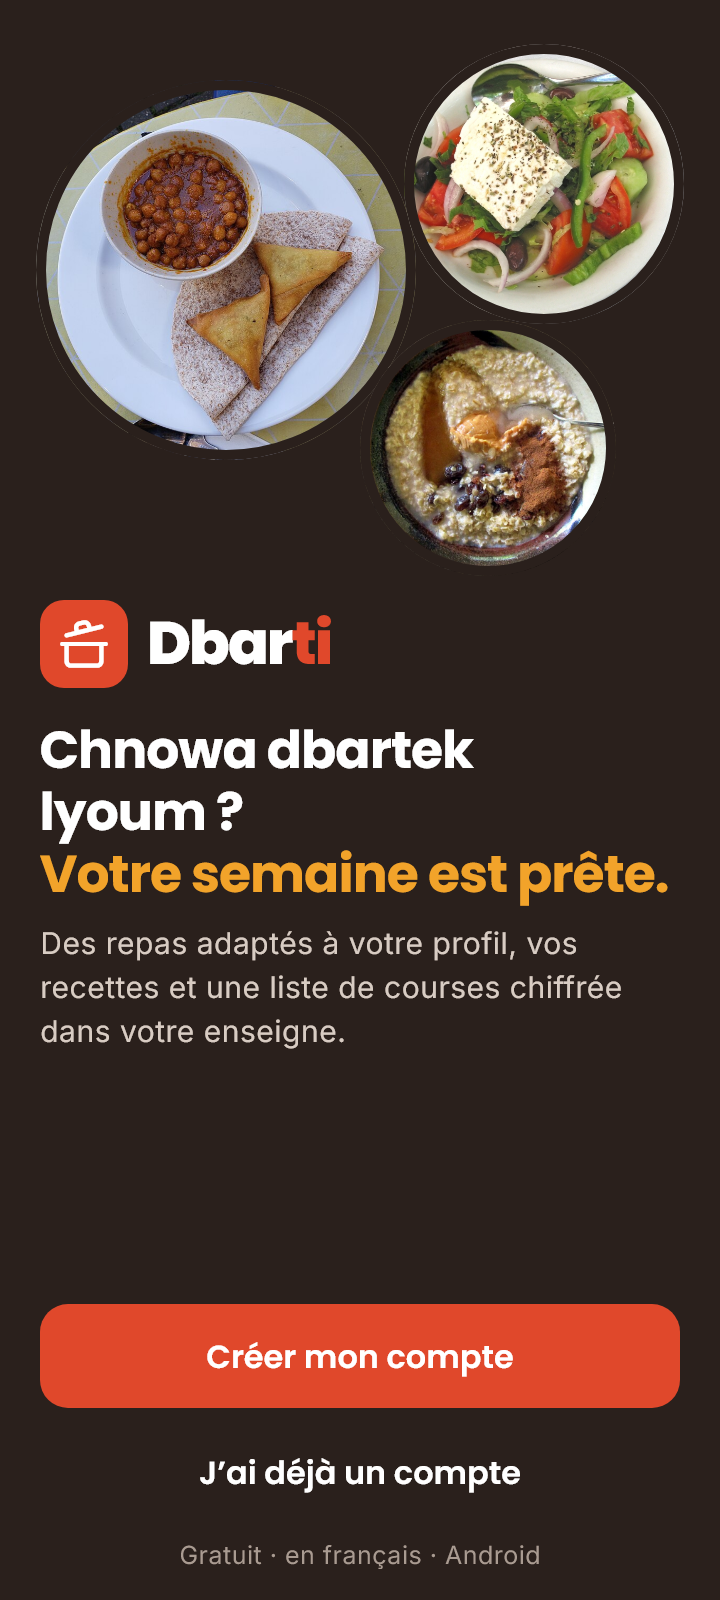
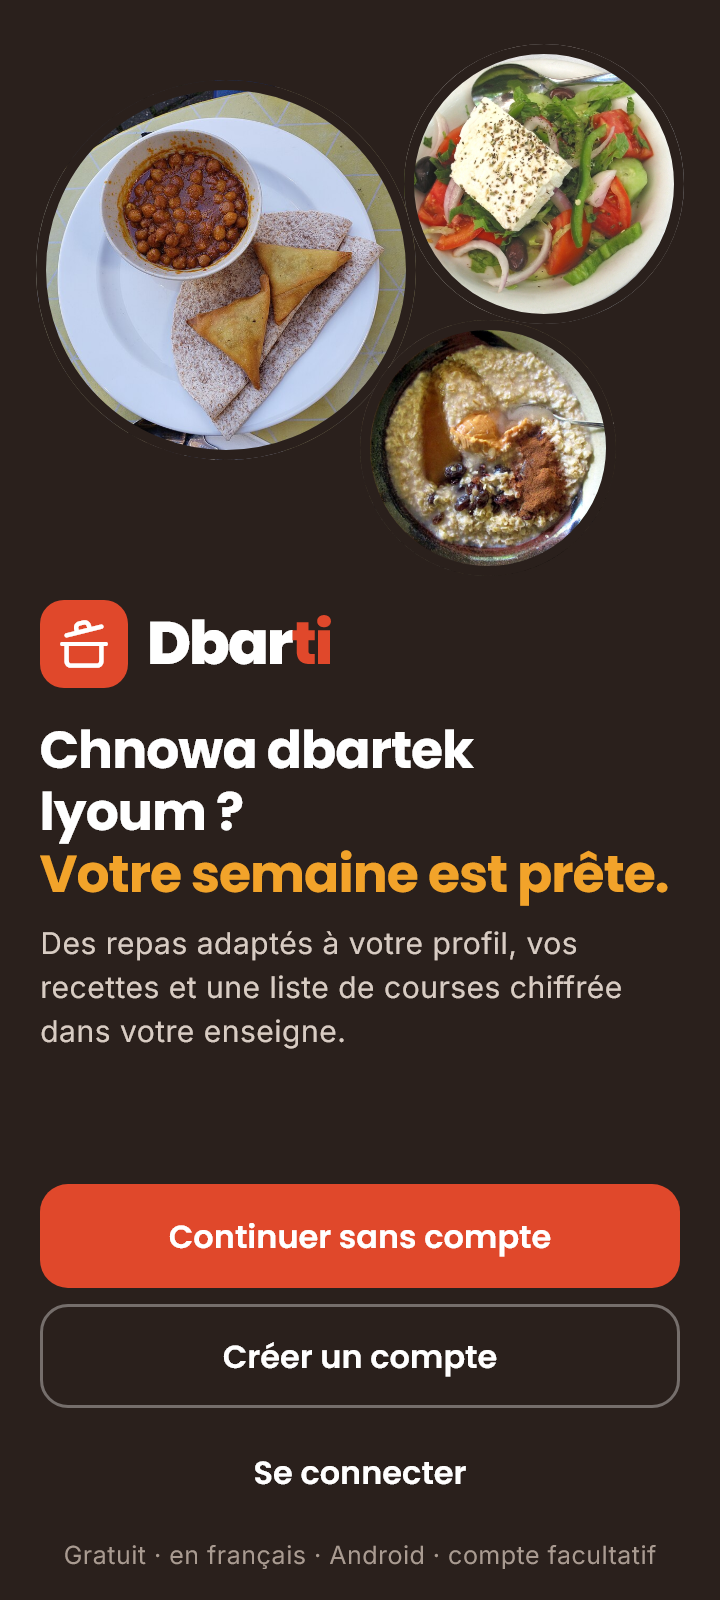
Documentation : utiliser sans compte
Section « Utiliser sans compte » du README, PLAN.md (version 1.1.0),
diagrammes mis à jour et capture de l'écran 01.

diff --git a/README.md b/README.md
@@ -24,10 +24,23 @@ Dbarti est une application mobile Android, en français, qui prépare les repas 
 - la **liste de courses** additionne les 21 repas, associe chaque ingrédient à un produit de l'enseigne et affiche le **total en dinars** (3 décimales) et le reste du budget ;
 - les courses se font **en magasin** (itinéraire) ou **en livraison** sur le site de l'enseigne : la liste est copiée, le paiement se fait hors de l'application.
 
-L'application fonctionne **sans clé ni serveur** : tout est stocké sur le téléphone.
+L'application fonctionne **sans clé ni serveur** : tout est stocké sur le téléphone. **Le compte est facultatif.**
 
 > **Données de démonstration.** Les plats, les produits et les prix sont inventés pour la démonstration. Ils ne correspondent pas aux catalogues réels des enseignes. Cette mention figure aussi dans l'application (onglet Profil, rubrique « À propos »).
 
+
+## 🙋 Utiliser sans compte
+
+Créer un compte n'est pas obligatoire.
+
+1. Sur l'écran de bienvenue, appuyez sur **« Continuer sans compte »** (l'action principale). « Créer un compte » et « Se connecter » restent proposés.
+2. Seul le **consentement aux données de santé** est demandé (obligatoire) : pas d'e-mail, pas de mot de passe. Le questionnaire commence aussitôt.
+3. Le visiteur a accès à **toutes les fonctions** : questionnaire, planning, remplacement d'un repas, recettes, mode cuisine, liste de courses et achat. Aucun écran ne demande de compte, et aucun rappel ne s'affiche.
+4. Ses données sont enregistrées **seulement sur le téléphone** et restent après la fermeture de l'application : au lancement suivant, Dbarti s'ouvre directement sur le planning (ou sur le questionnaire s'il n'est pas terminé).
+5. Dans l'onglet **Profil**, un bandeau « Vous utilisez Dbarti sans compte » propose **« Créer un compte »** (facultatif). Le visiteur devient alors un utilisateur inscrit : **même identifiant**, et son profil, son planning et sa liste de courses sont gardés. Si l'adresse e-mail est déjà utilisée, un message l'explique et rien n'est perdu.
+6. **« Effacer mes données »** (avec confirmation) remplace « Supprimer le compte » pour un visiteur.
+
+Dans le code : `Utilisateur.estVisiteur`, les attributs `nomComplet`, `email`, `motDePasseHache` et `dateInscription` facultatifs ([0..1]), `ServiceAuthentification.demarrerVisiteur(consentement)`, et `inscrire()` qui convertit le visiteur sur le même objet (`creerCompte()`). Les comptes enregistrés par la version 1.0.0 sont migrés au démarrage (`estVisiteur = faux`), sans perte de données.
 
 ## 🧭 Le parcours
 
@@ -61,7 +74,7 @@ L'application fonctionne **sans clé ni serveur** : tout est stocké sur le tél
 
 1. Téléchargez `Dbarti.apk` depuis la page [Releases](../../releases/latest) du dépôt.
 2. Sur le téléphone Android (7.0 ou plus récent), ouvrez le fichier et autorisez l'installation depuis cette source si Android le demande.
-3. Lancez **Dbarti**, puis « Créer mon compte ».
+3. Lancez **Dbarti**, puis « Continuer sans compte » (ou « Créer un compte »).
 
 L'APK est signé avec la clé de debug : il convient pour une démonstration, pas pour une publication sur un store.
 
@@ -136,7 +149,7 @@ assets/donnees/  recettes, ingrédients, enseignes, catalogues (avec dateMiseAJo
 [services et systèmes externes](docs/diagrammes/classes_services_externes.png)
 
 **Séquences** :
-[1 S'authentifier](docs/diagrammes/sequence_1_authentification.png) ·
+[1 Accéder à Dbarti : visiteur ou compte](docs/diagrammes/sequence_1_authentification.png) ·
 [2 Questionnaire](docs/diagrammes/sequence_2_questionnaire.png) ·
 [3 Générer le planning](docs/diagrammes/sequence_3_planning.png) ·
 [4 Remplacer un repas](docs/diagrammes/sequence_4_remplacer_repas.png) ·
@@ -171,6 +184,7 @@ Les choix et les points ambigus sont détaillés dans [PLAN.md](PLAN.md).
 - `planning_test.dart` : 21 repas exactement, filtre des allergènes (arachides) et des exclusions, adaptation « Sans mixeur », recette au four retirée, coût de 55,830 DT, dépassement du budget, agent en panne (l'ancien planning reste), remplacement d'un repas ;
 - `courses_test.dart` : agrégation des quantités, « à acheter ailleurs », total de 55,830 DT et reste de 4,170 DT, « déjà à la maison », prix indicatifs, collecte simulée, achat en livraison ou en magasin ;
 - `authentification_test.dart` : mot de passe haché et salé, connexion, formats, suppression du compte ;
+- `visiteur_test.dart` : `demarrerVisiteur()`, parcours complet sans compte, conversion visiteur → compte (même id, données gardées), e-mail déjà utilisé, persistance après redémarrage (mémoire et fichiers Hive), migration des comptes 1.0.0, écrans du visiteur ;
 - `parcours_test.dart` (widgets) : inscription → questionnaire → analyse → profil → planning, puis liste de courses.
 
 La CI (`.github/workflows/build-apk.yml`) lance `flutter analyze`, `flutter test` et `flutter build apk --release`, puis publie l'APK en artefact.

diff --git a/PLAN.md b/PLAN.md
@@ -239,3 +239,22 @@ Plus `flutter analyze` sans erreur ni avertissement.
 | 22 | Moment où `adapterRecette()` est appelé | Il est appelé pour chaque repas, et pas seulement quand un appareil manque : c'est aussi lui qui renvoie l'adaptation « Ingrédient local ». S'il manque un appareil et qu'aucune méthode ne le remplace, la recette est retirée (règle de l'écran 09) |
 | 23 | Cuisines préférées | L'agent local suit des semaines types par régime et respecte le temps maximal. Les cuisines préférées sont transmises à l'agent IA facultatif (Claude), mais elles ne changent pas les semaines types de l'agent local |
 | 24 | Stockage | `hive_ce` (pur Dart) avec `path_provider`, et non `hive_ce_flutter` : la version 2.6 de ce dernier compile du code C sur l'ordinateur, ce qui demanderait Visual Studio pour lancer les tests sous Windows |
+
+## 11. Version 1.1.0 — accès visiteur (compte facultatif)
+
+Source : diagrammes mis à jour dans `obj 4/Dbarti_Presentation_Semaine4 v1.pptx` (classe `Utilisateur`, `ServiceAuthentification`, séquence 1 « Accéder à Dbarti : visiteur ou compte »).
+
+| Exigence | Où dans le code |
+|---|---|
+| Écran 01 : « Continuer sans compte » (action principale), « Créer un compte », « Se connecter » | `ecran_01_bienvenue.dart` |
+| Consentement santé seul, obligatoire, puis questionnaire (écran 04) | `ecran_01v_consentement.dart` → `ServiceAuthentification.demarrerVisiteur(consentement)` |
+| `Utilisateur.estVisiteur` ; `nomComplet`, `email`, `motDePasseHache`, `dateInscription` facultatifs [0..1] | `modeles/utilisateur.dart` |
+| Toutes les fonctions sans compte, aucun rappel ni pop-up | aucun écran ne teste `estVisiteur` sauf l'onglet Profil |
+| Données seulement sur le téléphone, gardées après fermeture ; démarrage direct sur le planning ou le questionnaire | session dans `BaseDeDonnees` (Hive), `app.dart` |
+| Profil : bandeau « Vous utilisez Dbarti sans compte » + « Créer un compte » facultatif | `ecran_18_profil.dart` |
+| Conversion : `inscrire()` par un visiteur → `creerCompte()` sur le même objet (même id, aucune copie) | `ServiceAuthentification.inscrire`, `Utilisateur.creerCompte` |
+| E-mail déjà utilisé : message clair, données du visiteur intactes | vérifié avant `creerCompte()` |
+| « Effacer mes données » (avec confirmation) au lieu de « Supprimer le compte » ; pas de « Se déconnecter » pour un visiteur (il perdrait l'accès à ses données) | `ecran_18_profil.dart` |
+| Migration des données existantes | `ServiceAuthentification.migrer()` au démarrage : réglage `versionSchema` = 2, comptes 1.0.0 → `estVisiteur = faux` |
+
+Choix retenus : l'écran de consentement du visiteur est un nouvel écran (01V), car le prototype n'en avait pas ; « Créer un compte » depuis le profil réutilise l'écran 02 sans la case de consentement (déjà donné).
